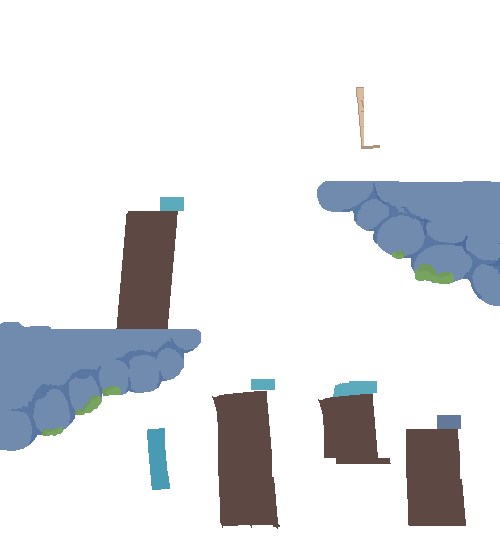
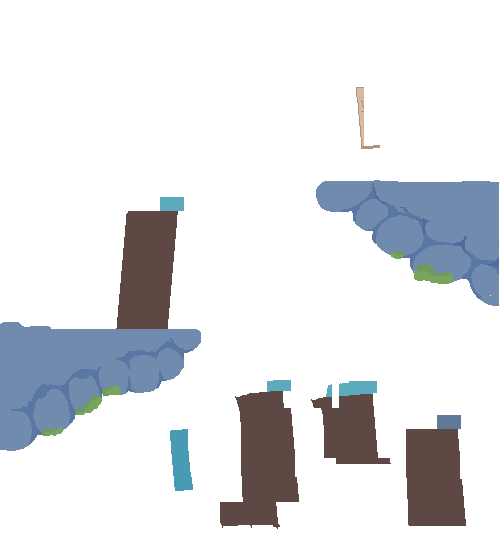
Is that my boat scene added

diff --git a/UnderwaterTown.cs b/UnderwaterTown.cs
@@ -6,11 +6,13 @@ public partial class UnderwaterTown : Node2D
 {
 	private bool transitioning = false;
 	private TextBox carT;
+	private TextBox dashT;
 	private static int encounterNum = 0; 
 	// Called when the node enters the scene tree for the first time.
 	public override void _Ready()
 	{
 		carT = GetNode<TextBox>("Carsava/TextBox");
+		dashT = GetNode<TextBox>("UnderwaterPlayer/TextBox");
 		GetNode<Walls>("RightExitWall").Enable();
 		GetNode<AnimatedSprite2D>("Carsava").Animation = "red";
 	}
@@ -22,27 +24,61 @@ public partial class UnderwaterTown : Node2D
 			await NextRoomCheck();
 		}
 	}
-	public void PlayerMeetCarsava(Node2D body) {
+
+	private async void OnIsThatMyBoatTriggerBodyEntered(Node2D player)
+	{
+		if (GlobalScript.CQ("short") == "GoToTown")
+		{
+			if (player is Player p)
+			{
+				p.SetDisableMovement(true);
+				player.GetNode<AnimatedSprite2D>("AnimatedSprite2D").Animation = "sit-helmet";
+				await dashT.ShowText("Hang on a minute...");
+		
+				var camera = GetNode<Camera2D>("UnderwaterPlayer/Camera2D");
+				var cameraOriginalPos = camera.GlobalPosition;
+				var textBoxOriginalPos = dashT.GlobalPosition;
+
+				camera.GlobalPosition = new Vector2(300, 340);
+				dashT.GlobalPosition = new Vector2(300, 360);
+				await dashT.ShowText("Is that my boat up there??");
+
+				camera.GlobalPosition = cameraOriginalPos;
+				dashT.GlobalPosition = textBoxOriginalPos;
+				await dashT.ShowText("How in the world did it get there??");
+				GlobalScript.QuestNum ++;
+				p.SetDisableMovement(false);
+			}
+		}
+	}
+
+	private async void PlayerMeetCarsava(Node2D body) {
 		if (body is Player p) {
-			CarsavaDialogue();
+			p.SetDisableMovement(true);
+			body.GetNode<AnimatedSprite2D>("AnimatedSprite2D").Stop();
+
+			await CarsavaDialogue();
+
+			p.SetDisableMovement(false);
+			body.GetNode<AnimatedSprite2D>("AnimatedSprite2D").Play();
 		}
 	}
 	
-	public async void CarsavaDialogue() {
-		if (GlobalScript.Inventory.Contains("Town ticket")) {
+	private async Task CarsavaDialogue() {
+		if (GlobalScript.Inventory.Contains("Town pass")) {
 			if (encounterNum == 1) {
 				await carT.ShowText("You again - I told you -");
-				await carT.ShowText("Wait, you got a key? That's my sister, Catssava's!");
+				await carT.ShowText("Wait, you got a pass? That's my sister, Catssava's!");
 				await carT.ShowText("She must really have faith in you. The ocean's dangers are no joke!");
 				await carT.ShowText("Well, go ahead then. And good luck.");
 				encounterNum++;
 			}
 			else if (encounterNum == 0) {
 				await carT.ShowText("I'm Carsava, the town guard. And you must be the new stranger in town.");
-				await carT.ShowText("Gotten a key already, have you? I'm warning you, the waters beyond are dangerous.");
+				await carT.ShowText("Gotten a pass already, have you? I'm warning you, the waters beyond are dangerous.");
 				await carT.ShowText("I'm assuming you're trying to get boba for my sister.");
 				await carT.ShowText("Saying you miraculously succeed somehow...she would be very grateful.");
-				await carT.ShowText("She's been depressed ever since her boba supply vanished.");
+				await carT.ShowText("She's been down ever since her boba supply vanished.");
 				encounterNum = 2;
 			}
 			else {
@@ -81,9 +117,8 @@ public partial class UnderwaterTown : Node2D
 		else {
 			if (encounterNum == 0) {
 				await carT.ShowText("I'm Carsava, the town guard. And you must be the new stranger in town.");
-				await carT.ShowText("I can't let you leave town without a ticket.");
-				await carT.ShowText("It's too dangerous out there for a normal cat.");
-				await carT.ShowText("No reason to leave if you don't have to.");
+				await carT.ShowText("Unfortunately, I can't let you leave town without a pass.");
+				await carT.ShowText("It's too dangerous out there for a normal cat. No reason to leave if you don't have to.");
 				encounterNum++;
 			}
 			else {
@@ -116,7 +151,7 @@ public partial class UnderwaterTown : Node2D
 	}
 
 	//shop doors:
-	public async void OnEnterRoom(String roomName)
+	private async void OnEnterRoom(String roomName)
 	{
 		var player = GetNode<CharacterBody2D>("UnderwaterPlayer");
 		var FaderNode = GetNode<CanvasLayer>("/root/Fader");

diff --git a/SubmarineShop.cs b/SubmarineShop.cs
@@ -27,7 +27,7 @@ public partial class SubmarineShop : Node2D
 			azucat.FlipH = false;
 			sprite.Animation = "sit_right";
 		}
-		startDialogue(player);
+		StartDialogue(player);
 	}
 
 	// Called every frame. 'delta' is the elapsed time since the previous frame.
@@ -39,7 +39,7 @@ public partial class SubmarineShop : Node2D
 		}
 	}
 	
-	public async void startDialogue(Node2D player) {
+	public async void StartDialogue(Node2D player) {
 		if (playerTextNode is TextBox pText && azucatTextNode is TextBox aText) {
 			//Quest 0: find mechanic to fix ship
 			if (GlobalScript.CQ("short") == "MeetAzucat") {
@@ -54,7 +54,8 @@ public partial class SubmarineShop : Node2D
 				await aText.ShowText("Oh sorry. I thought it looked cool, so I patched it up and put it there."); 
 				await aText.ShowText("Didn't know it was yours."); 
 				await pText.ShowText("How did you-- My ship just crashed! I need it to go back to the surface...");
-				await aText.ShowText("How ‘bout let’s make a deal. You get some tapioca boba milk tea for me, and I’ll see what I can do ‘bout getting you a new boat.");
+				await aText.ShowText("How ‘bout let’s make a deal. You get some boba milk tea for me, and I’ll see what I can do ‘bout getting you a new boat.");
+				await aText.ShowText("And make sure to get it with tapioca pearls! You can't go without the tapioca!");
 				await aText.ShowText("Don’t worry, it’s pretty easy to get. Best deal you’ll get ‘round here.");
 				
 				//Variant stores any data type (not used here anymore)
@@ -69,7 +70,7 @@ public partial class SubmarineShop : Node2D
 					await aText.ShowText("Pleasure doing business with you.");
 				}
 
-				GetNode<Control>("EnterLabel").Hide();
+				//GetNode<Control>("EnterLabel").Hide();
 
 				//make player go through entire dialogue if they exited the shop in the middle of it
 				GlobalScript.QuestNum++; //next quest: 1. visit boba shop

diff --git a/TextBox.cs b/TextBox.cs
@@ -85,9 +85,10 @@ public partial class TextBox : Node2D
 		Show();
 		timer.Start();
 		var result =  await ToSignal(this, TextBox.SignalName.ChoiceMade);
-		if (result is [Variant choice]) {
-			return (string) choice;
-		}
+		GD.Print(result);///
+		// if (result is Variant choice) {
+		// 	return (string) choice;
+		// }
 		return null;
 	}
 	

diff --git a/BobaShop.cs b/BobaShop.cs
@@ -61,8 +61,8 @@ public partial class BobaShop : Node2D
 			else {
 				await dashT.ShowText("My name is Dash. Azucat won't give me a new boat until I get him tapioca, so it's only right for me to do this.");
 			}
-			await catssavaT.ShowText("In that case, you'll need a ticket to leave town. I'll give you mine.");
-			GlobalScript.Inventory.Add("Town ticket");
+			await catssavaT.ShowText("In that case, you'll need a pass to leave town. I'll give you mine.");
+			GlobalScript.Inventory.Add("Town pass");
 			MetCatssava = true;
 			GlobalScript.QuestNum++;
 		}

diff --git a/EnterSeaBunnyRoom.cs b/EnterSeaBunnyRoom.cs
@@ -10,7 +10,7 @@ public partial class EnterSeaBunnyRoom : Node2D
 	//private static bool fedToBunny = false;
 
 	// Called when the node enters the scene tree for the first time.
-	public override void _Ready()
+	public override async void _Ready()
 	{
 		dashT = GetNode<TextBox>("GroundPlayer/TextBox");
 		parvaT = GetNode<TextBox>("Parva/TextBox");
@@ -18,7 +18,7 @@ public partial class EnterSeaBunnyRoom : Node2D
 		//note: alternatively could do GlobalScript.MainQuests[QuestNum] == quest name
 		if (GlobalScript.CQ("short") == "Trapdoor") {
 			GetNode<AnimatedSprite2D>("Parva").Show();
-			StartDialogue();
+			await StartDialogue();
 		}
 		else {
 			GetNode<AnimatedSprite2D>("Parva").Hide();

diff --git a/InventoryTab.cs b/InventoryTab.cs
@@ -18,7 +18,7 @@ public partial class InventoryTab : Button
 	public void OnButtonPressed() {
 		text.Text = "";
 		AddItem("flashlight", "Flashlight");
-		AddItem("Town ticket", "Town ticket");
+		AddItem("Town pass", "Town pass");
 	}
 	
 	public void AddItem(string CodeName, string UIName) {

diff --git a/Camera2d.cs b/Camera2d.cs
@@ -10,6 +10,7 @@ public partial class Camera2d : Camera2D
 	{
 		"SubmarineShop",
 		"BobaShop",
+		"PlantShop",
 		"EnterCaveRoom",
 		"ParvaHouse",
 		"EnterSeaBunnyRoom",